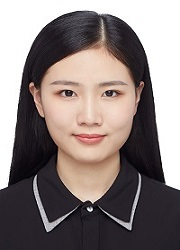
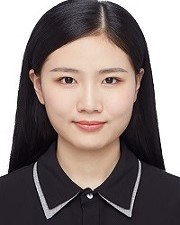
update members

diff --git a/html/Members.html b/html/Members.html
@@ -118,6 +118,12 @@
             </li>
             <li class="submember">
                 <!-- <a href='Members/qunliangxing.html'> -->
+                <img src="../img/photos/chenchaoran.jpg" />
+                <div class="personName">Chaoran Chen</div>
+                </a>
+            </li>
+            <li class="submember">
+                <!-- <a href='Members/qunliangxing.html'> -->
                 <img src="../img/photos/liuchengfeng.jpg" />
                 <div class="personName">Chengfeng Liu</div>
                 </a>
